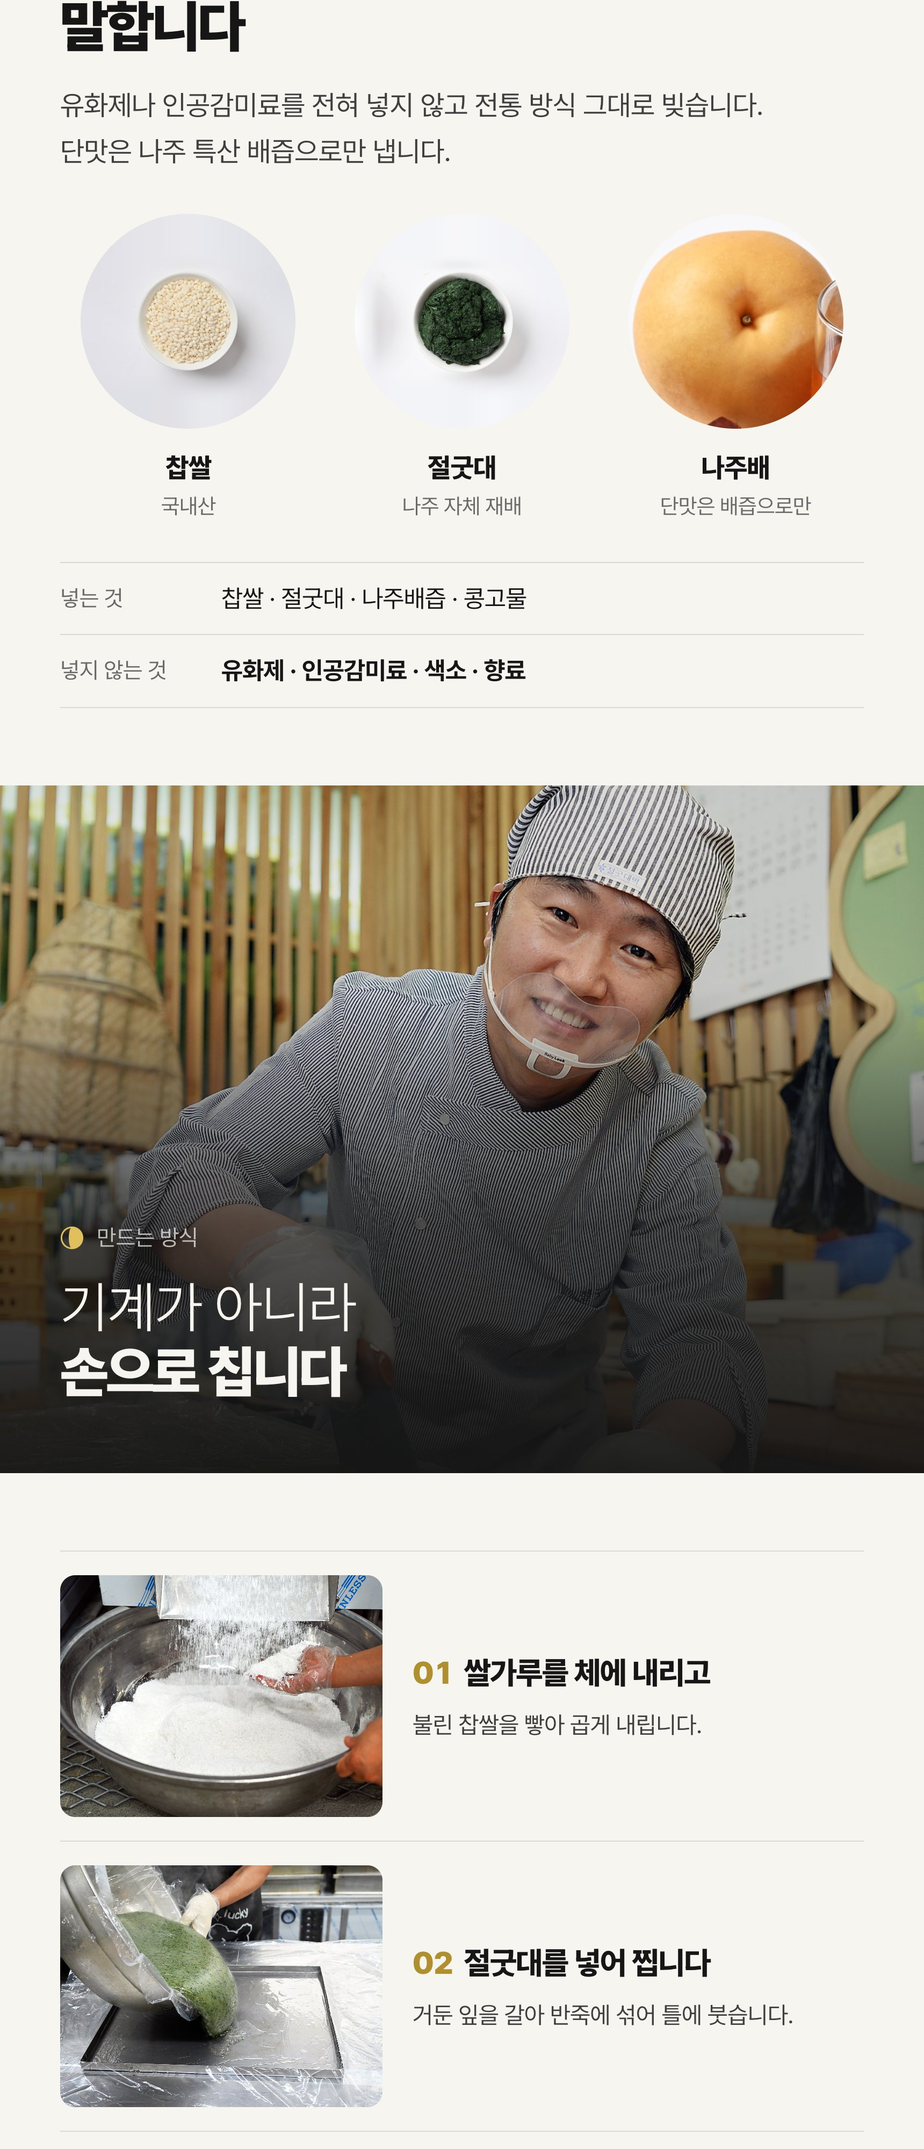
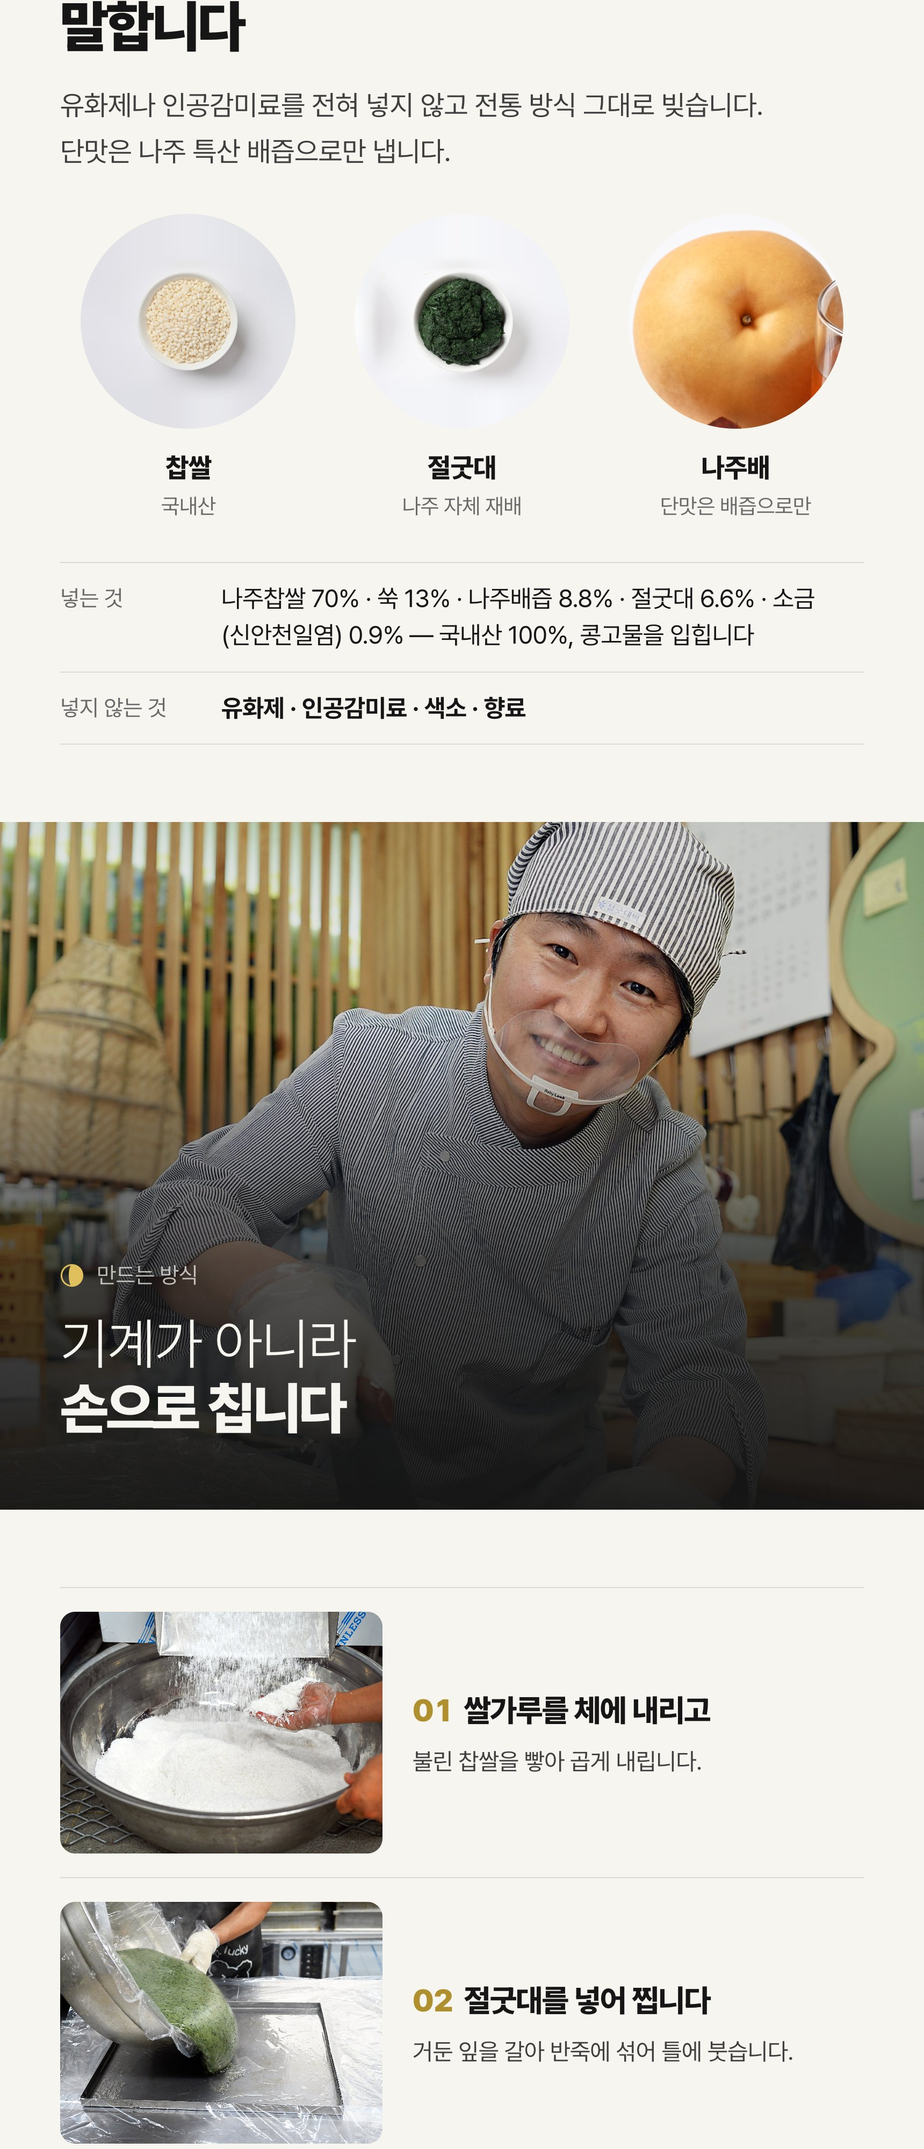
feat: 클라이언트 자료 2차 반영 — 대표자·이메일, 절굿대떡 표시사항, 연혁·인증서, 바람떡 체험, 사회적기업 로고
- 법적 표기 대표자를 김은아로(사업자등록증·사회적기업 인증서·명함 일치) · 이메일 sunriseea@hanmail.net
- 절굿대떡: 식품유형 떡류, 원재료 국내산 100%(나주찹쌀 70·쑥 13·나주배즙 8.8·절굿대 6.6·소금 0.9), 제조·판매원 절굿대떡屋 — 상세페이지 2종 재렌더
- 인증 목록 연대순 7건(관광두레 현판·도지사 표창장·사회적기업 인증서 이미지 추가, 떡제조기능사) · 연혁에 보도 매체·여행자플랫폼·여성기업·협약 보강
- 체험은 클라이언트 자료대로 「바람떡 만들기」(앙금 나누기 → 밀기 → 찍기 → 담기), 문화누리카드·단체 주문 안내
- 푸터에 고용노동부 사회적기업 시그니처(흰 판), 법적 표기 두 줄

Changed region(s): [[0.0, 0.25, 1.0, 1.0], [0.6779, 0.2812, 0.8012, 0.3125]]

diff --git a/lib/site.ts b/lib/site.ts
@@ -20,7 +20,8 @@ export const site = {
   tagline: "남도의 으뜸맛떡",
   description:
     "사라졌던 나주 절굿대떡을 되살려 인공첨가물 없이 재래방식으로 빚습니다. 나주 징고샅길의 떡카페에서 맛보고, 만들어 볼 수 있습니다.",
-  owner: "김화수",
+  /* 법적 표기의 대표자 — 사업자등록증·사회적기업 인증서·명함 모두 김은아. 복원자 김화수 대표는 이야기에 나온다. */
+  owner: "김은아",
   since: 2016,
 
   /* 도메인이 정해지면 NEXT_PUBLIC_SITE_URL 만 바꾼다 — sitemap·OG·구조화
@@ -58,7 +59,7 @@ export const site = {
   /** 카카오맵 장소 페이지(장소 ID 302960832). 길찾기·리뷰·지도 퍼가기가 여기서 나온다. */
   kakaoPlaceUrl: "https://place.map.kakao.com/302960832",
   /** TODO(클라이언트): 문의 이메일. null 이면 푸터 사업자 표기 줄에서 빠진다. */
-  email: null as string | null,
+  email: "sunriseea@hanmail.net" as string | null,
 
   /** 법인명. 화면에 보이는 이름은 site.name(절굿대달토끼), 법적 표기는 이쪽이다. */
   legalName: "농업회사법인주식회사절굿대",
@@ -241,45 +242,52 @@ export const products: Product[] = [
     detailImages: [
       {
         src: "/images/detail/jeolgutdae-01.jpg",
-        alt: "절굿대떡 상세 — 50년 만에 돌아온 나주의 이바지 떡, 재료·만드는 방식·보관·제품정보 (1/6)",
+        alt: "절굿대떡 상세 — 50년 만에 돌아온 나주의 이바지 떡, 재료·만드는 방식·보관·제품정보 (1/7)",
         width: 1720,
         height: 3958,
[1 lines of base64/hex data omitted]
       },
       {
         src: "/images/detail/jeolgutdae-02.jpg",
-        alt: "절굿대떡 상세 — 50년 만에 돌아온 나주의 이바지 떡, 재료·만드는 방식·보관·제품정보 (2/6)",
+        alt: "절굿대떡 상세 — 50년 만에 돌아온 나주의 이바지 떡, 재료·만드는 방식·보관·제품정보 (2/7)",
         width: 1720,
         height: 3859,
[1 lines of base64/hex data omitted]
       },
       {
         src: "/images/detail/jeolgutdae-03.jpg",
-        alt: "절굿대떡 상세 — 50년 만에 돌아온 나주의 이바지 떡, 재료·만드는 방식·보관·제품정보 (3/6)",
+        alt: "절굿대떡 상세 — 50년 만에 돌아온 나주의 이바지 떡, 재료·만드는 방식·보관·제품정보 (3/7)",
         width: 1720,
         height: 3919,
[1 lines of base64/hex data omitted]
       },
       {
         src: "/images/detail/jeolgutdae-04.jpg",
-        alt: "절굿대떡 상세 — 50년 만에 돌아온 나주의 이바지 떡, 재료·만드는 방식·보관·제품정보 (4/6)",
+        alt: "절굿대떡 상세 — 50년 만에 돌아온 나주의 이바지 떡, 재료·만드는 방식·보관·제품정보 (4/7)",
         width: 1720,
         height: 4000,
[2 lines of base64/hex data omitted]
       },
       {
         src: "/images/detail/jeolgutdae-05.jpg",
-        alt: "절굿대떡 상세 — 50년 만에 돌아온 나주의 이바지 떡, 재료·만드는 방식·보관·제품정보 (5/6)",
+        alt: "절굿대떡 상세 — 50년 만에 돌아온 나주의 이바지 떡, 재료·만드는 방식·보관·제품정보 (5/7)",
         width: 1720,
-        height: 4000,
[1 lines of base64/hex data omitted]
+        height: 3917,
[1 lines of base64/hex data omitted]
       },
       {
         src: "/images/detail/jeolgutdae-06.jpg",
-        alt: "절굿대떡 상세 — 50년 만에 돌아온 나주의 이바지 떡, 재료·만드는 방식·보관·제품정보 (6/6)",
+        alt: "절굿대떡 상세 — 50년 만에 돌아온 나주의 이바지 떡, 재료·만드는 방식·보관·제품정보 (6/7)",
         width: 1720,
-        height: 4170,
[1 lines of base64/hex data omitted]
+        height: 4000,
[1 lines of base64/hex data omitted]
+      },
+      {
+        src: "/images/detail/jeolgutdae-07.jpg",
+        alt: "절굿대떡 상세 — 50년 만에 돌아온 나주의 이바지 떡, 재료·만드는 방식·보관·제품정보 (7/7)",
+        width: 1720,
+        height: 661,
[1 lines of base64/hex data omitted]
       },
     ],
     ingredients: [
@@ -301,7 +309,13 @@ export const products: Product[] = [
     storeUrl: null,
     spec: [
       { label: "내용량", value: "80g × 20개 · 약 1,600g" },
-      { label: "보관", value: "남은 떡은 굳기 전에 냉동 보관해 주세요" },
+      { label: "식품유형", value: "떡류" },
+      {
+        label: "원재료",
+        value:
+          "국내산 100% — 나주찹쌀 70%, 절굿대 6.6%, 쑥 13%, 나주배즙 8.8%, 소금(신안천일염) 0.9% · 콩고물을 입힙니다",
+      },
+      { label: "보관", value: "냉동 보관 · 남은 떡은 굳기 전에 냉동해 주세요" },
       {
         label: "해동",
         value: "실온에서 1~2시간, 또는 찜기·전자레인지로 말랑하게",
@@ -312,6 +326,10 @@ export const products: Product[] = [
           "인절미 그대로가 가장 좋지만, 기호에 따라 청이나 콩가루를 곁들이셔도 됩니다",
       },
       { label: "포장", value: "낱개 포장" },
+      {
+        label: "제조·판매",
+        value: "절굿대떡屋 · 나주시 청동길 14 (나주목사고을시장 안)",
+      },
     ],
     gallery: [
       {
@@ -499,7 +517,7 @@ export const products: Product[] = [
         alt: "선물세트 상세 — 구성·포장·재료·쓰임새·배송·제품정보 (3/5)",
         width: 1720,
         height: 3667,
[2 lines of base64/hex data omitted]
       },
       {
         src: "/images/detail/gift-04.jpg",
@@ -602,20 +620,25 @@ export const history = [
   },
   {
     year: "2017",
-    items: ["50년 만에 사라졌던 남도의 으뜸맛떡 '절굿대떡' 부활"],
+    items: [
+      "50년 만에 사라졌던 남도의 으뜸맛떡 '절굿대떡' 부활",
+      "천지일보·MBC 빛날·KBS 생생3도·tvN 놀라운 TV·전남도정방송 등 보도",
+    ],
   },
   {
     year: "2019",
     items: [
       "농업회사법인 주식회사 절굿대 설립",
       "나주읍성 '절굿대달토끼' 떡카페 오픈",
-      "관광두레 선정 (문화체육관광부·한국문화관광연구원·한국관광공사)",
+      "관광두레 주민사업체 선정 (문화체육관광부·한국문화관광연구원·한국관광공사)",
+      "나주시 여행자플랫폼 선정",
     ],
   },
   {
     year: "2020",
     items: [
-      "떡제조기능사 국가자격 취득",
+      "떡제조기능사 국가자격 취득 (김화수)",
+      "여성기업 확인",
       "전남형 예비사회적기업 지정",
       "사회복지시설 업무협약 (장애인복지관·다문화가족센터)",
     ],
@@ -631,7 +654,7 @@ export const history = [
   {
     year: "2023",
     items: [
-      "나주시 여성새로일하기센터·국립나주숲체원 등 업무협약",
+      "나주시 여성새로일하기센터·국립나주숲체원·사회적기업 내일드림·전남지역문제해결플랫폼 업무협약",
       "사회적기업 인증 제2023-247호 · 고용노동부",
     ],
   },
@@ -652,7 +675,7 @@ export const history = [
  * 그래서 이 항목들이 이 사업에서 가장 급한 미수령 자료다.
  */
 export const experience = {
-  name: "'절굿대떡' 만들기 체험",
+  name: "바람떡 만들기 체험",
   target: "학교·단체·가족 (개인 참여도 가능)",
   /** TODO(클라이언트): 최소·최대 인원 */
   minPeople: null as number | null,
@@ -666,10 +689,18 @@ export const experience = {
   /** TODO(클라이언트): 체험 후 가져가는 것 */
   takeaway: null as string | null,
   /** 진행 순서. 클라이언트 문안과 체험 사진에서 확인된 것만 적는다. */
+  /* 클라이언트 체험 자료(바람떡 만들기) 순서 그대로. */
   steps: [
-    { title: "반죽 치기", detail: "쌀 반죽을 손으로 칩니다." },
-    { title: "모양 빚기", detail: "빚은 떡에 나무 떡살로 문양을 찍습니다." },
-    { title: "콩고물 입히기", detail: "고물을 입혀 마무리합니다." },
+    { title: "앙금 나누기", detail: "속에 넣을 앙금을 한 개 분량씩 나눕니다." },
+    { title: "밀대로 떡 밀기", detail: "떡 반죽을 밀대로 둥글게 밉니다." },
+    {
+      title: "앙금 올려 모양 찍기",
+      detail: "앙금을 올려 반달로 접고 바람떡 틀로 찍습니다.",
+    },
+    {
+      title: "꾸며서 상자에 담기",
+      detail: "예쁘게 꾸민 떡을 상자에 담아 가져갑니다.",
+    },
   ],
 } as const;
 
@@ -681,6 +712,27 @@ export const credentials: {
   image?: { src: string; alt: string; width: number; height: number };
 }[] = [
   {
+    label: "관광두레 선정",
+    detail: "2019년 문화체육관광부·한국관광공사 · 나주시 여행자플랫폼",
+    image: {
+      src: "/images/plaque-tourdure.jpg",
+      alt: "2020 관광두레 현판",
+      width: 847,
+      height: 485,
+    },
+  },
+  { label: "떡제조기능사", detail: "2020년 국가기술자격 · 김화수" },
+  {
+    label: "전라남도지사 표창",
+    detail: "2021년 사회복지 부문",
+    image: {
+      src: "/images/award-2021.jpg",
+      alt: "전라남도지사 표창장 — 농업회사법인 주식회사 절굿대, 2021년",
+      width: 664,
+      height: 963,
+    },
+  },
+  {
     label: "맛의방주 등재",
     detail: "2022년 국제슬로푸드생물다양성재단",
     image: {
@@ -690,7 +742,16 @@ export const credentials: {
       height: 1125,
     },
   },
-  { label: "사회적기업 인증", detail: "제2023-247호 · 고용노동부" },
+  {
+    label: "사회적기업 인증",
+    detail: "제2023-247호 · 고용노동부 (2023년 10월 25일)",
+    image: {
+      src: "/images/cert-social.jpg",
+      alt: "농업회사법인 주식회사 절굿대 사회적기업 인증서 — 고용노동부, 제2023-247호",
+      width: 989,
+      height: 1400,
+    },
+  },
   { label: "고향사랑 답례품", detail: "2024년 나주시 선정" },
   {
     label: "상표등록",

diff --git a/tools/detail-pages/jeolgutdae.html b/tools/detail-pages/jeolgutdae.html
@@ -38,7 +38,7 @@
     <div class="photo circle ring" style="width:620px;height:620px;margin:0 auto"><img src="../../public/images/product-jeolgutdae-plate.jpg" alt="" /></div>
     <div class="center" style="margin-top:40px">
       <p class="h3">콩고물을 입힌 나주의 이바지 떡</p>
-      <p class="body" style="margin-top:10px">찹쌀 · 절굿대 · 나주배즙 · 콩고물 — 넣는 것은 넷뿐입니다.</p>
+      <p class="body" style="margin-top:10px">찹쌀 · 절굿대 · 쑥 · 나주배즙 · 소금 — 전부 국내산이고, 콩고물을 입힙니다.</p>
     </div>
     <div class="numbers" style="margin-top:44px">
       <div><p class="n">2016<span class="u">년</span></p><p class="d">절굿대 육묘 국내 최초 성공</p></div>
@@ -86,7 +86,7 @@
       <div class="ing"><div class="photo circle"><img src="../../public/images/ing-pear.jpg" alt="" /></div><p class="l">나주배</p><p class="s">단맛은 배즙으로만</p></div>
     </div>
     <div class="tbl" style="margin-top:36px">
-      <div class="row"><p class="k">넣는 것</p><p class="v">찹쌀 · 절굿대 · 나주배즙 · 콩고물</p></div>
+      <div class="row"><p class="k">넣는 것</p><p class="v">나주찹쌀 70% · 쑥 13% · 나주배즙 8.8% · 절굿대 6.6% · 소금(신안천일염) 0.9% — 국내산 100%, 콩고물을 입힙니다</p></div>
       <div class="row"><p class="k">넣지 않는 것</p><p class="v"><strong>유화제 · 인공감미료 · 색소 · 향료</strong></p></div>
     </div>
   </section>
@@ -137,10 +137,12 @@
       <div class="row"><p class="k">제품명</p><p class="v">절굿대떡</p></div>
       <div class="row"><p class="k">가격</p><p class="v">35,000원 (1박스 · 20개)</p></div>
       <div class="row"><p class="k">내용량</p><p class="v">80g × 20개 · 약 1,600g</p></div>
-      <div class="row"><p class="k">원재료</p><p class="v">찹쌀, 절굿대, 나주배즙, 콩고물</p></div>
-      <div class="row"><p class="k">원산지</p><p class="v">국내산 (절굿대: 나주 자체 재배)</p></div>
+      <div class="row"><p class="k">식품유형</p><p class="v">떡류</p></div>
+      <div class="row"><p class="k">원재료</p><p class="v">국내산 100% — 나주찹쌀 70%, 절굿대 6.6%, 쑥 13%, 나주배즙 8.8%, 소금(신안천일염) 0.9% · 콩고물을 입힙니다</p></div>
+      <div class="row"><p class="k">원산지</p><p class="v">국내산 100% (절굿대: 나주 자체 재배)</p></div>
       <div class="row"><p class="k">포장</p><p class="v">낱개 포장</p></div>
       <div class="row"><p class="k">보관방법</p><p class="v">냉동 보관 · 받으신 날 드시는 것이 가장 좋습니다</p></div>
+      <div class="row"><p class="k">제조·판매</p><p class="v">절굿대떡屋 · 나주시 청동길 14 (나주목사고을시장 안)</p></div>
       <div class="row"><p class="k">배송 방법</p><p class="v">보냉 상자에 담아 택배 · 배송비 3,500원</p></div>
       <div class="row"><p class="k">인증</p><p class="v">맛의방주 등재(2022) · 사회적기업 제2023-247호 · 고향사랑 답례품(2024) · 상표등록 제40-2515456호(2026)</p></div>
       <div class="row"><p class="k">제조원</p><p class="v">농업회사법인 주식회사 절굿대</p></div>

diff --git a/app/visit/page.tsx b/app/visit/page.tsx
@@ -11,7 +11,7 @@ import { experience, site } from "@/lib/site";
 
 export const metadata: Metadata = {
   title: "체험·매장",
-  description: `${site.address}. 절굿대떡 만들기 체험과 떡카페를 함께 운영합니다.`,
+  description: `${site.address}. 바람떡 만들기 체험과 떡카페를 함께 운영합니다.`,
   alternates: { canonical: "/visit" },
   openGraph: {
     images: [
@@ -28,14 +28,15 @@ export const metadata: Metadata = {
 const mapQuery = encodeURIComponent(`${site.address} ${site.name}`);
 
 /* 체험 사진은 얼굴이 들어오지 않는 두 컷만. 나머지 자료 사진은 참가자 얼굴이 정면으로 크게 나와 초상권 동의 없이는 못 올린다. */
+/* 체험 사진은 클라이언트 체험 자료(바람떡 만들기)에서. 얼굴이 나오는 교육 사진은 초상권 동의 없이 못 올린다. */
 const experiencePhotos = [
   {
     src: "/images/making-hands.jpg",
     alt: "장갑 낀 손으로 초록 절굿대 반죽을 틀에 펴고 있다",
   },
   {
-    src: "/images/process-pour.jpg",
-    alt: "절굿대를 넣은 초록 반죽을 틀에 붓는다",
+    src: "/images/baramtteok-box.jpg",
+    alt: "상자에 담은 색색의 바람떡",
   },
 ];
 /* 매장 사진은 장면이라 사각. 간판 「절굿대 달토끼」가 통째로 들어오는 위치로 자른다. */
@@ -84,6 +85,8 @@ export default function VisitPage() {
           : null,
     },
     { label: "운영", value: availability },
+    { label: "결제", value: "문화누리카드 사용 가능" },
+    { label: "단체", value: "학교·공공기관 단체 주문 환영" },
     { label: "가져가는 것", value: takeaway },
     {
       label: "예약",
@@ -128,12 +131,12 @@ export default function VisitPage() {
             <SectionHead
               phase={0.25}
               eyebrow="체험"
-              title={{ thin: "절굿대떡 ", black: "만들기 체험" }}
+              title={{ thin: "바람떡 ", black: "만들기 체험" }}
               split="inline"
             />
             <p className="mt-6 max-w-prose text-ink-soft">
-              반죽을 치고 모양을 빚어 콩고물을 입히기까지, 손으로 해 봅니다.
-              어린이 단체부터 어른 모임까지 참여할 수 있습니다.
+              떡 반죽을 밀고 앙금을 넣어 바람떡을 찍고, 예쁘게 꾸며 상자에 담아
+              갑니다. 어린이 단체부터 어른 모임까지 참여할 수 있습니다.
             </p>
             {/*
               인솔자는 예산을 짜야 해서 인원·시간·참가비 없이는 전화를 못 건다.

diff --git a/components/site-footer.tsx b/components/site-footer.tsx
@@ -42,6 +42,15 @@ export function SiteFooter() {
           <p className="mt-6 max-w-xs text-small">
             {site.tagline} · {site.since}년부터 나주에서
           </p>
+          {/* 사회적기업 시그니처(고용노동부 지정 표시). 흰 판 위에 — 지침상 바탕색 위에 직접 놓지 않는다. */}
+          <Image
+            src="/brand/social-enterprise.png"
+            alt="고용노동부 인증 사회적기업 제2023-247호"
+            width={1200}
+            height={341}
+            sizes="160px"
+            className="mt-6 h-12 w-auto rounded-sm bg-paper px-3 py-2"
+          />
         </div>
 
         <div>
@@ -95,15 +104,17 @@ export function SiteFooter() {
 
       <div className="relative border-t border-paper/15">
         {/* 모바일은 세로로 쌓고 점 없이 — 줄바꿈된 줄 앞에 '·' 가 남으면 글머리 목록으로 읽힌다(375 실측). */}
-        <div className="mx-auto flex max-w-6xl flex-col gap-y-1 px-5 py-6 text-caption text-paper-faint sm:flex-row sm:flex-wrap sm:[&>span+span]:before:mx-2 sm:[&>span+span]:before:text-paper/30 sm:[&>span+span]:before:content-['·'] lg:px-8">
+        <div className="mx-auto flex max-w-6xl flex-col gap-y-1 px-5 pt-6 pb-1 text-caption text-paper-faint sm:flex-row sm:flex-wrap sm:[&>span+span]:before:mx-2 sm:[&>span+span]:before:text-paper/30 sm:[&>span+span]:before:content-['·'] lg:px-8">
           <span>{site.legalName}</span>
           <span>대표 {site.owner}</span>
           <span>사업자등록번호 {site.businessNumber}</span>
           <span>통신판매업 {site.mailOrderNumber}</span>
-          {site.email && <span>{site.email}</span>}
+        </div>
+        <div className="mx-auto flex max-w-6xl flex-col gap-y-1 px-5 pb-6 text-caption text-paper-faint sm:flex-row sm:flex-wrap sm:[&>span+span]:before:mx-2 sm:[&>span+span]:before:text-paper/30 sm:[&>span+span]:before:content-['·'] lg:px-8">
           <span>
             ({site.postalCode}) {site.address}
           </span>
+          {site.email && <span>{site.email}</span>}
         </div>
       </div>
     </footer>

diff --git a/tools/detail-pages/gift.html b/tools/detail-pages/gift.html
@@ -69,7 +69,7 @@
     <h2 class="h2"><span class="thin">선물이라</span><br /><span class="black">더 넣지 않았습니다</span></h2>
     <p class="body paper-soft" style="margin-top:22px;max-width:700px">떡은 유화제·인공감미료를, 오란다는 인공첨가물·방부제를 넣지 않습니다. 단맛은 나주배즙, 고소함은 여섯 가지 견과.</p>
     <div class="rules" style="margin-top:32px">
-      <div class="r"><p class="k">절굿대떡</p><div><p class="t">찹쌀 · 절굿대 · 나주배즙 · 콩고물</p><p class="d">넣지 않음 — 유화제 · 인공감미료</p></div></div>
+      <div class="r"><p class="k">절굿대떡</p><div><p class="t">찹쌀 · 절굿대 · 쑥 · 나주배즙 · 소금 · 콩고물</p><p class="d">국내산 100% · 넣지 않음 — 유화제 · 인공감미료</p></div></div>
       <div class="r"><p class="k">오란다</p><div><p class="t">나주배즙 · 볶은깨 · 땅콩 · 해바라기씨 · 호박씨 · 크랜베리 · 건포도</p><p class="d">넣지 않음 — 인공첨가물 · 방부제</p></div></div>
     </div>
     <div class="grid-4" style="margin-top:32px">
